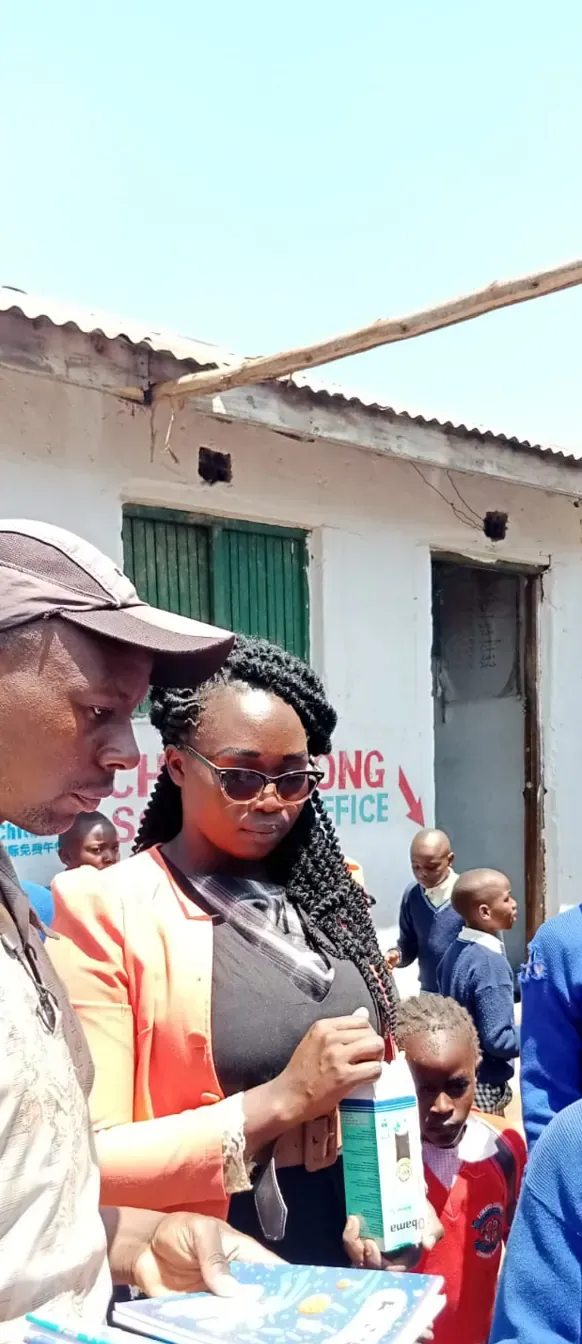
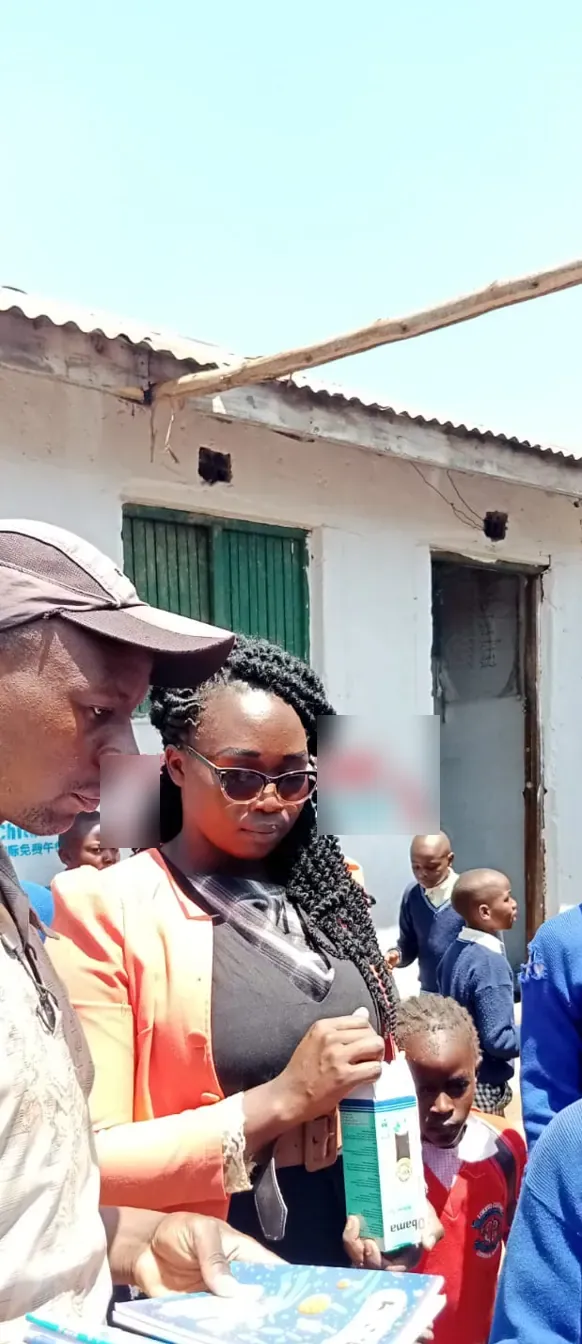
Theme 0.63.17: blur school office sign on books photo; handover docs updated for galleries, Precious and Eunice

Changed region(s): [[0.5258, 0.5312, 0.7732, 0.625], [0.1546, 0.5625, 0.2784, 0.6562]]

diff --git a/wp-content/themes/light-of-future/style.css b/wp-content/themes/light-of-future/style.css
@@ -5,7 +5,7 @@ Description:  Theme for Light of Future Foundation (Nairobi, Kenya). Child theme
 Author:       Pimofy Digital
 Author URI:   https://lightoffuturefoundation.org/
 Template:     hello-elementor
-Version:      0.63.16
+Version:      0.63.17
 Requires at least: 6.3
 Tested up to: 6.7
 Requires PHP: 7.4

diff --git a/wp-content/themes/light-of-future/inc/upgrade-0642.php b/wp-content/themes/light-of-future/inc/upgrade-0642.php
@@ -56,3 +56,30 @@ function lof_upgrade_0642_media() {
 	update_option( 'lof_media_0642_rev', 1, false );
 }
 add_action( 'admin_init', 'lof_upgrade_0642_media', 44 );
+
+/**
+ * 0.63.17: re-copy the books photo with the school office sign blurred.
+ */
+function lof_upgrade_0642_media_rev2() {
+	if ( get_option( 'lof_media_0642_rev2' ) || ! get_option( 'lof_media_0642_rev' ) || ! current_user_can( 'manage_options' ) ) {
+		return;
+	}
+	$dst = WP_PLUGIN_DIR . '/light-of-future-media/assets/photos/';
+	if ( ! is_dir( $dst ) ) {
+		return;
+	}
+	foreach ( array( 'edu-books-team.webp', 'edu-books-team-sm.webp' ) as $name ) {
+		copy( LOF_THEME_DIR . '/assets/lofm-fix/' . $name, $dst . $name );
+	}
+	$attach = (array) get_option( 'lofm_attach_ids', array() );
+	if ( ! empty( $attach['edu-books-team'] ) ) {
+		$path = get_attached_file( (int) $attach['edu-books-team'] );
+		if ( $path && copy( LOF_THEME_DIR . '/assets/lofm-fix/edu-books-team.webp', $path ) ) {
+			require_once ABSPATH . 'wp-admin/includes/image.php';
+			wp_update_attachment_metadata( (int) $attach['edu-books-team'], wp_generate_attachment_metadata( (int) $attach['edu-books-team'], $path ) );
+		}
+	}
+	do_action( 'litespeed_purge_all' );
+	update_option( 'lof_media_0642_rev2', 1, false );
+}
+add_action( 'admin_init', 'lof_upgrade_0642_media_rev2', 45 );

diff --git a/wp-content/themes/light-of-future/functions.php b/wp-content/themes/light-of-future/functions.php
@@ -10,7 +10,7 @@
 
 defined( 'ABSPATH' ) || exit;
 
-define( 'LOF_THEME_VERSION', '0.63.16' );
+define( 'LOF_THEME_VERSION', '0.63.17' );
 define( 'LOF_THEME_DIR', get_stylesheet_directory() );
 define( 'LOF_THEME_URI', get_stylesheet_directory_uri() );
 

diff --git a/docs/HANDOVER.md b/docs/HANDOVER.md
@@ -4,7 +4,7 @@ Last updated: **9 Nov 2026, 20:30 EAT**, at theme **0.63.13** + Core **0.46.4** 
 
 ## 0. STATUS AS OF 9 NOV 2026 (read this first; sections 1-9 below are the 3 Nov / 0.43.1 snapshot and partly outdated)
 
-**Live versions:** theme `light-of-future` **0.63.15**, plugin `light-of-future-core` **0.46.4** (both installed on the live site and verified signed out on desktop and at 390px). Repo `moselanto/lightoffuturefoundation.org`, branch `main`. Every change is committed; `CHANGELOG.md` has one entry per release.
+**Live versions:** theme `light-of-future` **0.63.17**, plugin `light-of-future-core` **0.46.4** (both installed on the live site and verified signed out on desktop and at 390px). Repo `moselanto/lightoffuturefoundation.org`, branch `main`. Every change is committed; `CHANGELOG.md` has one entry per release.
 
 **The site is public and indexable.** The 3 Nov "keep noindex" rule is obsolete: theme 0.58 forces indexing on even if "Discourage search engines" gets ticked again. Do not turn noindex back on.
 
@@ -24,7 +24,7 @@ Last updated: **9 Nov 2026, 20:30 EAT**, at theme **0.63.13** + Core **0.46.4** 
 
 ### 0.2 Next steps (priority order)
 1. DONE 0.63.14/0.63.15: one figures note everywhere; Rosemary's main photo is now her portrait (the stall photo itself cuts off her head; it is inline in the story instead). Still check the Margaret crop on /stories/.
-2. **CONSENT CONFIRMED (9 Nov 2026, by the owner Ngimu):** consent is held for the pending stories and photos in the foundation's content intake list (Precious's photos, Eunice's sons, sanitary-pad girls, school-materials children, food-donation and mentorship photos, the borehole boy, talent-development performers). They can now be published. Still do not publish private records (hospital cards, clinical notes, blood-donor forms), keep Elijah's graphic wound images blurred (media plugin `!` prefix), cut children's spoken full names from videos, and keep Precious's location as "Nairobi" only. Next: publish these from the Content Library collections `projects/Light of Future Foundation/*` (Education, Sanitary Pads, Food Donations, Mentorship, Clean Water, Talent Development, Education Materials), using the intake document's suggested photo picks.
+2. **DONE 0.63.16-0.63.17 (galleries and Precious/Eunice):** the programme galleries (sanitary pads, education/school materials, food, mentorship, clean water, talent) come from the Light of Future Media plugin (`lofm_groups()`, shortcode `[lof_media group=...]`) and were already live; the photo files live ONLY on the server in `wp-content/plugins/light-of-future-media/assets/photos/` (not in git), videos in `light-of-future-video-1..12` plugins. **Never reinstall the media plugin from the repo: the repo copy has no photos and would delete them.** Cropped/cleaned photos (signs, phone number, TECNO watermarks; books office sign blurred) are in theme `assets/lofm-fix/` and are copied over the plugin files by `inc/upgrade-0642.php`. Precious: uniform main photo, uniform and shoes photos in the gallery, guardian/home photo hidden by CSS, location Nairobi only. Eunice's story shows Meshack and Silvester's school photo (class `lof-fig-portrait`). The live books-kibera and pads-thanks videos were checked and contain no child's full name. Earlier note: **CONSENT CONFIRMED (9 Nov 2026, by the owner Ngimu):** consent is held for the pending stories and photos in the foundation's content intake list (Precious's photos, Eunice's sons, sanitary-pad girls, school-materials children, food-donation and mentorship photos, the borehole boy, talent-development performers). They can now be published. Still do not publish private records (hospital cards, clinical notes, blood-donor forms), keep Elijah's graphic wound images blurred (media plugin `!` prefix), cut children's spoken full names from videos, and keep Precious's location as "Nairobi" only. Next: publish these from the Content Library collections `projects/Light of Future Foundation/*` (Education, Sanitary Pads, Food Donations, Mentorship, Clean Water, Talent Development, Education Materials), using the intake document's suggested photo picks.
 3. **Paystack USD:** a $10 test gave "We could not start the payment". USD must be enabled on the foundation's Paystack account, and a USD settlement bank account is needed (requirements PDF was sent to Francis on 6 Nov). Payment mode was reported as "Not set up" in settings on 8 Nov: confirm live keys and mode before telling anyone card giving works. **Open question to the owner:** should KES be the default currency until USD is approved?
 4. **Figures:** ask Francis whether the six older figures listed above are still accurate next to "55 people supported since 2024".
 5. **Leadership page top photo:** the owner disliked the sanitary-pads group photo on mobile; options D, E and F are awaiting a choice.

diff --git a/AGENTS.md b/AGENTS.md
@@ -27,7 +27,7 @@
 
 ## Current state (9 Nov 2026, 20:30 EAT)
 
-- Theme **0.63.15** and Core **0.46.4** are on `main` (0.63.14 installed 9 Nov, see work log). For what is done and what is next, see `docs/HANDOVER.md` section 0.
+- Theme **0.63.17** and Core **0.46.4** are on `main` (0.63.14 installed 9 Nov, see work log). For what is done and what is next, see `docs/HANDOVER.md` section 0.
 - Consent for the pending intake-list stories/photos was confirmed by the owner on 9 Nov 2026: publishing them is the next content job (HANDOVER 0.2 item 2). Other open items: Paystack USD enablement and USD settlement account (USD test failed) and confirmation of live keys/mode; the owner's answer on KES as default; Francis to re-confirm the six older impact figures; Leadership top photo (options D/E/F); partner website links; consent for pending stories (Precious etc.).
 - **Do not use "Apply latest design"** (it times out on this host). Ship page or content changes as one-off upgrades on `admin_init`. PHP lint is available in the build sandbox (`php -l`).
 
@@ -201,3 +201,4 @@
 - 2026-11-08/09: 0.63.10-0.63.13 on-page story videos (uploads/lof-videos, player in inc/story-0613.php), professional story layout, impact figures as a 4 x 2 card grid on Home/About/Impact, equal story cards on Impact. Next: see HANDOVER section 0.2.
 - 2026-11-09: 0.63.14 Rosemary photo framing, one figures note on every page. Owner confirmed consent for the pending intake-list stories and photos.
 - 2026-11-09: 0.63.15 Rosemary's portrait becomes her main story photo (stall photo moved inline).
+- 2026-11-09: 0.63.16/0.63.17 cleaned programme gallery photos (theme assets/lofm-fix copied over the media plugin photos), Precious approved photos only, Meshack and Silvester on Eunice's story. Do not reinstall the media plugin from the repo (no photos in git).

diff --git a/CHANGELOG.md b/CHANGELOG.md
@@ -1,5 +1,8 @@
 # Changelog
 
+## Theme 0.63.17 - 2026-11-09
+- Education 'Handing out books and pens' photo: the school office sign is blurred (it could not be cropped without cutting people). Copied once by `lof_upgrade_0642_media_rev2` (option `lof_media_0642_rev2`).
+
 ## Theme 0.63.16 - 2026-11-09
 - Consent for the intake-list photos confirmed by the owner (9 Nov). The programme galleries (sanitary pads, education and school materials, food donations, mentorship, clean water, talent development) were already live from the Light of Future Media plugin; this release cleans them up.
 - Cropped photos (shipped in `assets/lofm-fix/`, copied once over the media plugin's `assets/photos/` and its Media Library copies by `inc/upgrade-0642.php`, option `lof_media_0642_rev`): food-children (school sign and phone number), edu-books-team (school office sign), and the TECNO phone watermark removed from pads-school, pads-kits, pads-community, pads-thumbs, water-boy, ment-listening, food-family and edu-books.
